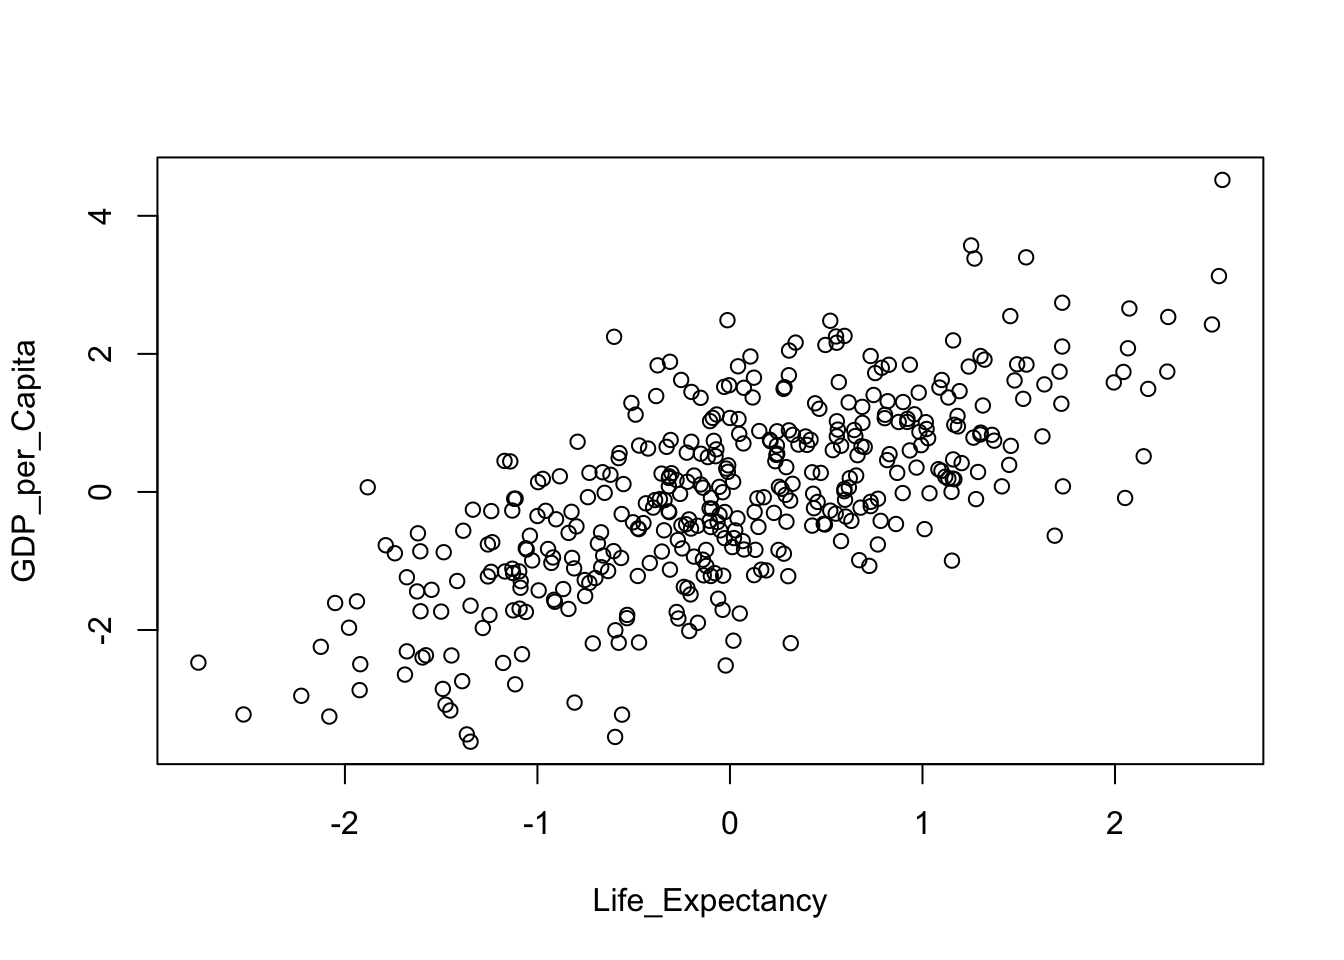
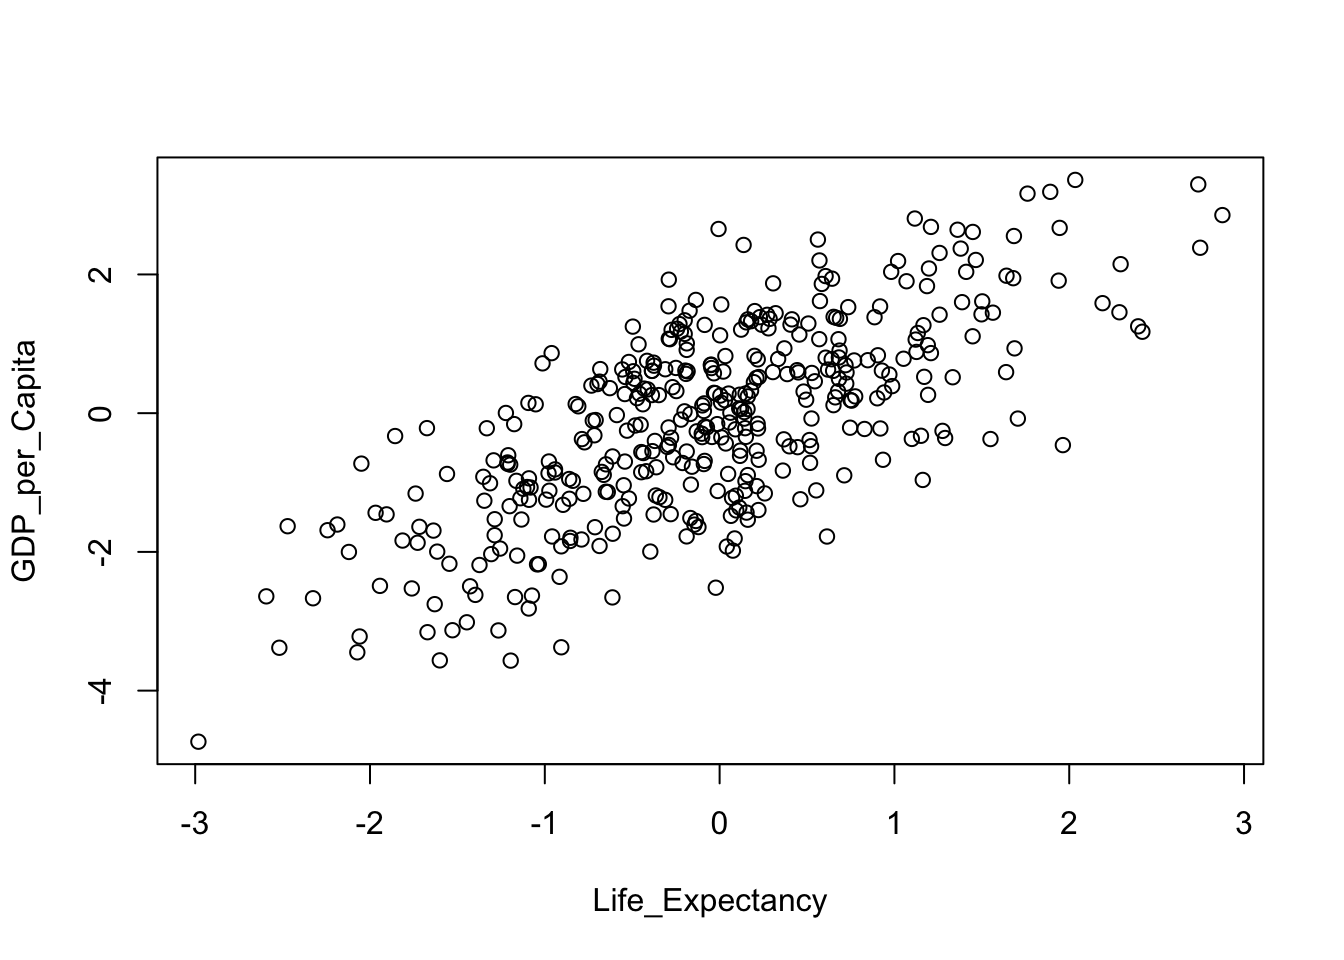
Add files via upload

diff --git a/assignment2.html b/assignment2.html
@@ -287,15 +287,16 @@ replace the existing scale.</code></pre>
 <span id="cb4-37"><a href="#cb4-37" aria-hidden="true" tabindex="-1"></a>Y <span class="ot">&lt;-</span> <span class="fu">rnorm</span>(<span class="dv">50</span>)</span>
 <span id="cb4-38"><a href="#cb4-38" aria-hidden="true" tabindex="-1"></a>Y</span></code><button title="Copy to Clipboard" class="code-copy-button"><i class="bi"></i></button></pre></div>
 <div class="cell-output cell-output-stdout">
-<pre><code> [1]  0.84709391  0.86810459 -0.25809064 -0.19595418  0.46192753  0.56066215
- [7] -0.03917658  0.05943386 -2.02907375 -0.07046625  0.11993703  1.83838431
-[13] -0.11881020  0.33465885 -0.69760254 -0.35981992 -0.69855688  0.44606592
-[19]  0.68141605  0.84742945  1.11201548  2.15032025  0.16805498  0.14981229
-[25] -0.30214650 -0.59139783 -0.26087726  1.35079686  0.31652193  1.49423020
-[31] -0.35946781  0.85866811  0.06932551  1.41514356  1.23894216 -0.77814730
-[37] -0.39277974 -1.39444159 -1.78752859 -1.25573979 -1.36717399 -0.89128684
-[43] -0.28662873 -0.62332043  2.19542016  1.10725300  0.84931812 -0.25928091
-[49]  1.80398471 -1.11866036</code></pre>
+<pre><code> [1]  0.733029933  0.072251772 -0.114741934 -0.113116541  0.159590210
+ [6] -0.326005063  1.052297696 -0.491974119  1.866822415 -0.723968952
+[11]  2.051388366 -0.246415363  1.080139231 -0.188667032 -0.153946476
+[16] -0.251724490 -0.732406659 -1.108944730 -1.067201753  0.413004595
+[21]  0.368841024  0.262920282 -1.113220948 -1.598164518  0.723628140
+[26]  0.417621864  0.166695517  2.793135396  0.498776869  1.450668096
+[31] -0.430517266 -1.546654683  0.002562824 -0.284920350 -0.546528061
+[36] -0.904932194 -1.491528296  0.353022977  0.070051400 -1.155658013
+[41]  0.949180130 -0.694783665 -0.186793097  0.738810007  0.132245778
+[46]  0.692560320  1.220756552  0.762994739  1.223792319 -1.365926839</code></pre>
 </div>
 <div class="cell-output-display">
 <p><img src="assignment2_files/figure-html/unnamed-chunk-3-1.png" class="img-fluid" width="672"></p>

diff --git a/assignment6.html b/assignment6.html
@@ -146,10 +146,6 @@ ul.task-list{list-style: none;}
   </ul>
 </nav>
     </div>
-
-<iframe width="800" height="600" src=" https://seongdeokoh.shinyapps.io/Assignment06/" frameborder="0" allowfullscreen> </iframe>
-  
-
 <!-- main -->
 <main class="content" id="quarto-document-content">
 
@@ -170,6 +166,7 @@ ul.task-list{list-style: none;}
 </section>
 <section id="the-below-i-did-embed-the-shiny-app-i-created-which-also-can-find-at-httpsseongdeokoh.shinyapps.ioassignment06" class="level5">
 <h5 class="anchored" data-anchor-id="the-below-i-did-embed-the-shiny-app-i-created-which-also-can-find-at-httpsseongdeokoh.shinyapps.ioassignment06">The below I did embed the Shiny app I created, which also can find at <a href="https://seongdeokoh.shinyapps.io/Assignment06" class="uri">https://seongdeokoh.shinyapps.io/Assignment06</a></h5>
+<p>&lt;iframe width=“800” height=“600” src=” <a href="https://seongdeokoh.shinyapps.io/Assignment06/?_ga=2.232681499.52106732.1669174605-679691802.1669174605">https://seongdeokoh.shinyapps.io/Assignment06/</a><a href="https://eliannaevans.shinyapps.io/assignment07/%22">”</a> frameborder=“0” allowfullscreen&gt; &lt;/iframe&gt;</p>
 
 
 </section>
